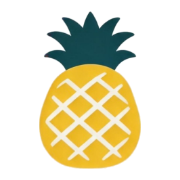
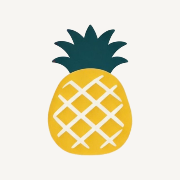
fix(assets): 壁纸裁掉自带画框铺满全屏 + 主屏图标补不透明底色
- background.webp：原图 3125x2344 外面套了一圈深棕色画框（上195/下196/左586/右586px），
  cover 缩放后正好落在屏幕上下边缘，看起来像「没铺满」。
  → 裁掉画框后重新编码成 1907x1907，花卉图案直接铺到屏幕边缘
- apple-touch-icon.png：原来完全透明 —— iOS 不支持透明通道，会用黑底填充，
  主屏上会是个黑方块。→ 补 #F7F5F2 不透明底，菠萝收到 72%（给圆角遮罩留余量）
- maskable-icon.png：同样补不透明底，图形收到 62%（落在 Android 圆形安全区内）
- manifest background_color #ffffff → #F7F5F2，跟 theme_color 一致
- sw.js 的 precache revision 随构建更新（老设备会自动拉新资源）

网页内与模拟屏里的 logo 逐像素查过：透明四角、边缘无毛边，本来就是干净的

Changed region(s): [[0.1944, 0.0556, 0.8056, 0.9444]]

diff --git a/public/sw.js b/public/sw.js
@@ -1,1 +1,1 @@
-if(!self.define){let e,s={};const n=(n,i)=>(n=new URL(n+".js",i).href,s[n]||new Promise(s=>{if("document"in self){const e=document.createElement("script");e.src=n,e.onload=s,document.head.appendChild(e)}else e=n,importScripts(n),s()}).then(()=>{let e=s[n];if(!e)throw new Error(`Module ${n} didn’t register its module`);return e}));self.define=(i,a)=>{const t=e||("document"in self?document.currentScript.src:"")||location.href;if(s[t])return;let c={};const r=e=>n(e,t),o={module:{uri:t},exports:c,require:r};s[t]=Promise.all(i.map(e=>o[e]||r(e))).then(e=>(a(...e),c))}}define(["./workbox-4754cb34"],function(e){"use strict";importScripts(),self.skipWaiting(),e.clientsClaim(),e.precacheAndRoute([{url:"/_headers",revision:"44e28de71dfd4dfa2976005023c592b3"},{url:"/_next/app-build-manifest.json",revision:"e344dd05997ec7ef163ef8b5c224bb24"},{url:"/_next/static/VLQKE0Frr21uO1fiAhxo5/_buildManifest.js",revision:"c155cce658e53418dec34664328b51ac"},{url:"/_next/static/VLQKE0Frr21uO1fiAhxo5/_ssgManifest.js",revision:"b6652df95db52feb4daf4eca35380933"},{url:"/_next/static/chunks/117-bf9a4e3495ea7431.js",revision:"VLQKE0Frr21uO1fiAhxo5"},{url:"/_next/static/chunks/745.d63e232bb54d0697.js",revision:"d63e232bb54d0697"},{url:"/_next/static/chunks/app/_not-found/page-c29644dd036fa4cb.js",revision:"VLQKE0Frr21uO1fiAhxo5"},{url:"/_next/static/chunks/app/dev-frame/page-64fbc0c4b1ab8fba.js",revision:"VLQKE0Frr21uO1fiAhxo5"},{url:"/_next/static/chunks/app/layout-d2c1b818dca474f2.js",revision:"VLQKE0Frr21uO1fiAhxo5"},{url:"/_next/static/chunks/app/page-50a3b0250fe8ff20.js",revision:"VLQKE0Frr21uO1fiAhxo5"},{url:"/_next/static/chunks/fd9d1056-f645e3cd7ccf8003.js",revision:"VLQKE0Frr21uO1fiAhxo5"},{url:"/_next/static/chunks/framework-f66176bb897dc684.js",revision:"VLQKE0Frr21uO1fiAhxo5"},{url:"/_next/static/chunks/main-0a0679a705e35641.js",revision:"VLQKE0Frr21uO1fiAhxo5"},{url:"/_next/static/chunks/main-app-9d5d665d1ad3906b.js",revision:"VLQKE0Frr21uO1fiAhxo5"},{url:"/_next/static/chunks/pages/_app-72b849fbd24ac258.js",revision:"VLQKE0Frr21uO1fiAhxo5"},{url:"/_next/static/chunks/pages/_error-7ba65e1336b92748.js",revision:"VLQKE0Frr21uO1fiAhxo5"},{url:"/_next/static/chunks/polyfills-42372ed130431b0a.js",revision:"846118c33b2c0e922d7b3a7676f81f6f"},{url:"/_next/static/chunks/webpack-9fb7f49b8625263f.js",revision:"VLQKE0Frr21uO1fiAhxo5"},{url:"/_next/static/css/6d0aedba55786f27.css",revision:"6d0aedba55786f27"},{url:"/apple-touch-icon.png",revision:"b52d31dabdef96206ef22e602312d53c"},{url:"/background.webp",revision:"33839d51eda6ad45aa6d25e0ed6b5ab7"},{url:"/favicon.ico",revision:"fe4f7cfd7c07558ba0b6d9bac4a3a1c2"},{url:"/icon-192x192.png",revision:"daa404b4d923df4bf808c849d80dd00d"},{url:"/icon-512x512.png",revision:"5c77bd5ebe3cbbb71a486f4bd08bc7f0"},{url:"/manifest.json",revision:"d1042e1f76c7be432ac62bef44f0ac55"},{url:"/maskable-icon.png",revision:"0774f5eaaa47ed67d0d0739c7ba1dbff"}],{ignoreURLParametersMatching:[]}),e.cleanupOutdatedCaches(),e.registerRoute("/",new e.NetworkFirst({cacheName:"start-url",plugins:[{cacheWillUpdate:async({request:e,response:s,event:n,state:i})=>s&&"opaqueredirect"===s.type?new Response(s.body,{status:200,statusText:"OK",headers:s.headers}):s}]}),"GET"),e.registerRoute(/^https:\/\/fonts\.(?:gstatic)\.com\/.*/i,new e.CacheFirst({cacheName:"google-fonts-webfonts",plugins:[new e.ExpirationPlugin({maxEntries:4,maxAgeSeconds:31536e3})]}),"GET"),e.registerRoute(/^https:\/\/fonts\.(?:googleapis)\.com\/.*/i,new e.StaleWhileRevalidate({cacheName:"google-fonts-stylesheets",plugins:[new e.ExpirationPlugin({maxEntries:4,maxAgeSeconds:604800})]}),"GET"),e.registerRoute(/\.(?:eot|otf|ttc|ttf|woff|woff2|font.css)$/i,new e.StaleWhileRevalidate({cacheName:"static-font-assets",plugins:[new e.ExpirationPlugin({maxEntries:4,maxAgeSeconds:604800})]}),"GET"),e.registerRoute(/\.(?:jpg|jpeg|gif|png|svg|ico|webp)$/i,new e.StaleWhileRevalidate({cacheName:"static-image-assets",plugins:[new e.ExpirationPlugin({maxEntries:64,maxAgeSeconds:86400})]}),"GET"),e.registerRoute(/\/_next\/image\?url=.+$/i,new e.StaleWhileRevalidate({cacheName:"next-image",plugins:[new e.ExpirationPlugin({maxEntries:64,maxAgeSeconds:86400})]}),"GET"),e.registerRoute(/\.(?:mp3|wav|ogg)$/i,new e.CacheFirst({cacheName:"static-audio-assets",plugins:[new e.RangeRequestsPlugin,new e.ExpirationPlugin({maxEntries:32,maxAgeSeconds:86400})]}),"GET"),e.registerRoute(/\.(?:mp4)$/i,new e.CacheFirst({cacheName:"static-video-assets",plugins:[new e.RangeRequestsPlugin,new e.ExpirationPlugin({maxEntries:32,maxAgeSeconds:86400})]}),"GET"),e.registerRoute(/\.(?:js)$/i,new e.StaleWhileRevalidate({cacheName:"static-js-assets",plugins:[new e.ExpirationPlugin({maxEntries:32,maxAgeSeconds:86400})]}),"GET"),e.registerRoute(/\.(?:css|less)$/i,new e.StaleWhileRevalidate({cacheName:"static-style-assets",plugins:[new e.ExpirationPlugin({maxEntries:32,maxAgeSeconds:86400})]}),"GET"),e.registerRoute(/\/_next\/data\/.+\/.+\.json$/i,new e.StaleWhileRevalidate({cacheName:"next-data",plugins:[new e.ExpirationPlugin({maxEntries:32,maxAgeSeconds:86400})]}),"GET"),e.registerRoute(/\.(?:json|xml|csv)$/i,new e.NetworkFirst({cacheName:"static-data-assets",plugins:[new e.ExpirationPlugin({maxEntries:32,maxAgeSeconds:86400})]}),"GET"),e.registerRoute(({url:e})=>{if(!(self.origin===e.origin))return!1;const s=e.pathname;return!s.startsWith("/api/auth/")&&!!s.startsWith("/api/")},new e.NetworkFirst({cacheName:"apis",networkTimeoutSeconds:10,plugins:[new e.ExpirationPlugin({maxEntries:16,maxAgeSeconds:86400})]}),"GET"),e.registerRoute(({url:e})=>{if(!(self.origin===e.origin))return!1;return!e.pathname.startsWith("/api/")},new e.NetworkFirst({cacheName:"others",networkTimeoutSeconds:10,plugins:[new e.ExpirationPlugin({maxEntries:32,maxAgeSeconds:86400})]}),"GET"),e.registerRoute(({url:e})=>!(self.origin===e.origin),new e.NetworkFirst({cacheName:"cross-origin",networkTimeoutSeconds:10,plugins:[new e.ExpirationPlugin({maxEntries:32,maxAgeSeconds:3600})]}),"GET")});
+if(!self.define){let e,s={};const n=(n,a)=>(n=new URL(n+".js",a).href,s[n]||new Promise(s=>{if("document"in self){const e=document.createElement("script");e.src=n,e.onload=s,document.head.appendChild(e)}else e=n,importScripts(n),s()}).then(()=>{let e=s[n];if(!e)throw new Error(`Module ${n} didn’t register its module`);return e}));self.define=(a,t)=>{const i=e||("document"in self?document.currentScript.src:"")||location.href;if(s[i])return;let c={};const o=e=>n(e,i),r={module:{uri:i},exports:c,require:o};s[i]=Promise.all(a.map(e=>r[e]||o(e))).then(e=>(t(...e),c))}}define(["./workbox-4754cb34"],function(e){"use strict";importScripts(),self.skipWaiting(),e.clientsClaim(),e.precacheAndRoute([{url:"/_headers",revision:"44e28de71dfd4dfa2976005023c592b3"},{url:"/_next/app-build-manifest.json",revision:"e344dd05997ec7ef163ef8b5c224bb24"},{url:"/_next/static/P3YZW49W6D8aowbt17leP/_buildManifest.js",revision:"c155cce658e53418dec34664328b51ac"},{url:"/_next/static/P3YZW49W6D8aowbt17leP/_ssgManifest.js",revision:"b6652df95db52feb4daf4eca35380933"},{url:"/_next/static/chunks/117-bf9a4e3495ea7431.js",revision:"P3YZW49W6D8aowbt17leP"},{url:"/_next/static/chunks/745.d63e232bb54d0697.js",revision:"d63e232bb54d0697"},{url:"/_next/static/chunks/app/_not-found/page-c29644dd036fa4cb.js",revision:"P3YZW49W6D8aowbt17leP"},{url:"/_next/static/chunks/app/dev-frame/page-64fbc0c4b1ab8fba.js",revision:"P3YZW49W6D8aowbt17leP"},{url:"/_next/static/chunks/app/layout-d2c1b818dca474f2.js",revision:"P3YZW49W6D8aowbt17leP"},{url:"/_next/static/chunks/app/page-50a3b0250fe8ff20.js",revision:"P3YZW49W6D8aowbt17leP"},{url:"/_next/static/chunks/fd9d1056-f645e3cd7ccf8003.js",revision:"P3YZW49W6D8aowbt17leP"},{url:"/_next/static/chunks/framework-f66176bb897dc684.js",revision:"P3YZW49W6D8aowbt17leP"},{url:"/_next/static/chunks/main-0a0679a705e35641.js",revision:"P3YZW49W6D8aowbt17leP"},{url:"/_next/static/chunks/main-app-9d5d665d1ad3906b.js",revision:"P3YZW49W6D8aowbt17leP"},{url:"/_next/static/chunks/pages/_app-72b849fbd24ac258.js",revision:"P3YZW49W6D8aowbt17leP"},{url:"/_next/static/chunks/pages/_error-7ba65e1336b92748.js",revision:"P3YZW49W6D8aowbt17leP"},{url:"/_next/static/chunks/polyfills-42372ed130431b0a.js",revision:"846118c33b2c0e922d7b3a7676f81f6f"},{url:"/_next/static/chunks/webpack-9fb7f49b8625263f.js",revision:"P3YZW49W6D8aowbt17leP"},{url:"/_next/static/css/6d0aedba55786f27.css",revision:"6d0aedba55786f27"},{url:"/apple-touch-icon.png",revision:"5297d0b30dd939caf2a51949703066bf"},{url:"/background.webp",revision:"ac984c4db3189f6b61db1080e70e4ac6"},{url:"/favicon.ico",revision:"fe4f7cfd7c07558ba0b6d9bac4a3a1c2"},{url:"/icon-192x192.png",revision:"daa404b4d923df4bf808c849d80dd00d"},{url:"/icon-512x512.png",revision:"5c77bd5ebe3cbbb71a486f4bd08bc7f0"},{url:"/manifest.json",revision:"683f61c56d5506d329264b64b66ce010"},{url:"/maskable-icon.png",revision:"c34c60b74f240f01c89306671f71d1cc"}],{ignoreURLParametersMatching:[]}),e.cleanupOutdatedCaches(),e.registerRoute("/",new e.NetworkFirst({cacheName:"start-url",plugins:[{cacheWillUpdate:async({request:e,response:s,event:n,state:a})=>s&&"opaqueredirect"===s.type?new Response(s.body,{status:200,statusText:"OK",headers:s.headers}):s}]}),"GET"),e.registerRoute(/^https:\/\/fonts\.(?:gstatic)\.com\/.*/i,new e.CacheFirst({cacheName:"google-fonts-webfonts",plugins:[new e.ExpirationPlugin({maxEntries:4,maxAgeSeconds:31536e3})]}),"GET"),e.registerRoute(/^https:\/\/fonts\.(?:googleapis)\.com\/.*/i,new e.StaleWhileRevalidate({cacheName:"google-fonts-stylesheets",plugins:[new e.ExpirationPlugin({maxEntries:4,maxAgeSeconds:604800})]}),"GET"),e.registerRoute(/\.(?:eot|otf|ttc|ttf|woff|woff2|font.css)$/i,new e.StaleWhileRevalidate({cacheName:"static-font-assets",plugins:[new e.ExpirationPlugin({maxEntries:4,maxAgeSeconds:604800})]}),"GET"),e.registerRoute(/\.(?:jpg|jpeg|gif|png|svg|ico|webp)$/i,new e.StaleWhileRevalidate({cacheName:"static-image-assets",plugins:[new e.ExpirationPlugin({maxEntries:64,maxAgeSeconds:86400})]}),"GET"),e.registerRoute(/\/_next\/image\?url=.+$/i,new e.StaleWhileRevalidate({cacheName:"next-image",plugins:[new e.ExpirationPlugin({maxEntries:64,maxAgeSeconds:86400})]}),"GET"),e.registerRoute(/\.(?:mp3|wav|ogg)$/i,new e.CacheFirst({cacheName:"static-audio-assets",plugins:[new e.RangeRequestsPlugin,new e.ExpirationPlugin({maxEntries:32,maxAgeSeconds:86400})]}),"GET"),e.registerRoute(/\.(?:mp4)$/i,new e.CacheFirst({cacheName:"static-video-assets",plugins:[new e.RangeRequestsPlugin,new e.ExpirationPlugin({maxEntries:32,maxAgeSeconds:86400})]}),"GET"),e.registerRoute(/\.(?:js)$/i,new e.StaleWhileRevalidate({cacheName:"static-js-assets",plugins:[new e.ExpirationPlugin({maxEntries:32,maxAgeSeconds:86400})]}),"GET"),e.registerRoute(/\.(?:css|less)$/i,new e.StaleWhileRevalidate({cacheName:"static-style-assets",plugins:[new e.ExpirationPlugin({maxEntries:32,maxAgeSeconds:86400})]}),"GET"),e.registerRoute(/\/_next\/data\/.+\/.+\.json$/i,new e.StaleWhileRevalidate({cacheName:"next-data",plugins:[new e.ExpirationPlugin({maxEntries:32,maxAgeSeconds:86400})]}),"GET"),e.registerRoute(/\.(?:json|xml|csv)$/i,new e.NetworkFirst({cacheName:"static-data-assets",plugins:[new e.ExpirationPlugin({maxEntries:32,maxAgeSeconds:86400})]}),"GET"),e.registerRoute(({url:e})=>{if(!(self.origin===e.origin))return!1;const s=e.pathname;return!s.startsWith("/api/auth/")&&!!s.startsWith("/api/")},new e.NetworkFirst({cacheName:"apis",networkTimeoutSeconds:10,plugins:[new e.ExpirationPlugin({maxEntries:16,maxAgeSeconds:86400})]}),"GET"),e.registerRoute(({url:e})=>{if(!(self.origin===e.origin))return!1;return!e.pathname.startsWith("/api/")},new e.NetworkFirst({cacheName:"others",networkTimeoutSeconds:10,plugins:[new e.ExpirationPlugin({maxEntries:32,maxAgeSeconds:86400})]}),"GET"),e.registerRoute(({url:e})=>!(self.origin===e.origin),new e.NetworkFirst({cacheName:"cross-origin",networkTimeoutSeconds:10,plugins:[new e.ExpirationPlugin({maxEntries:32,maxAgeSeconds:3600})]}),"GET")});
